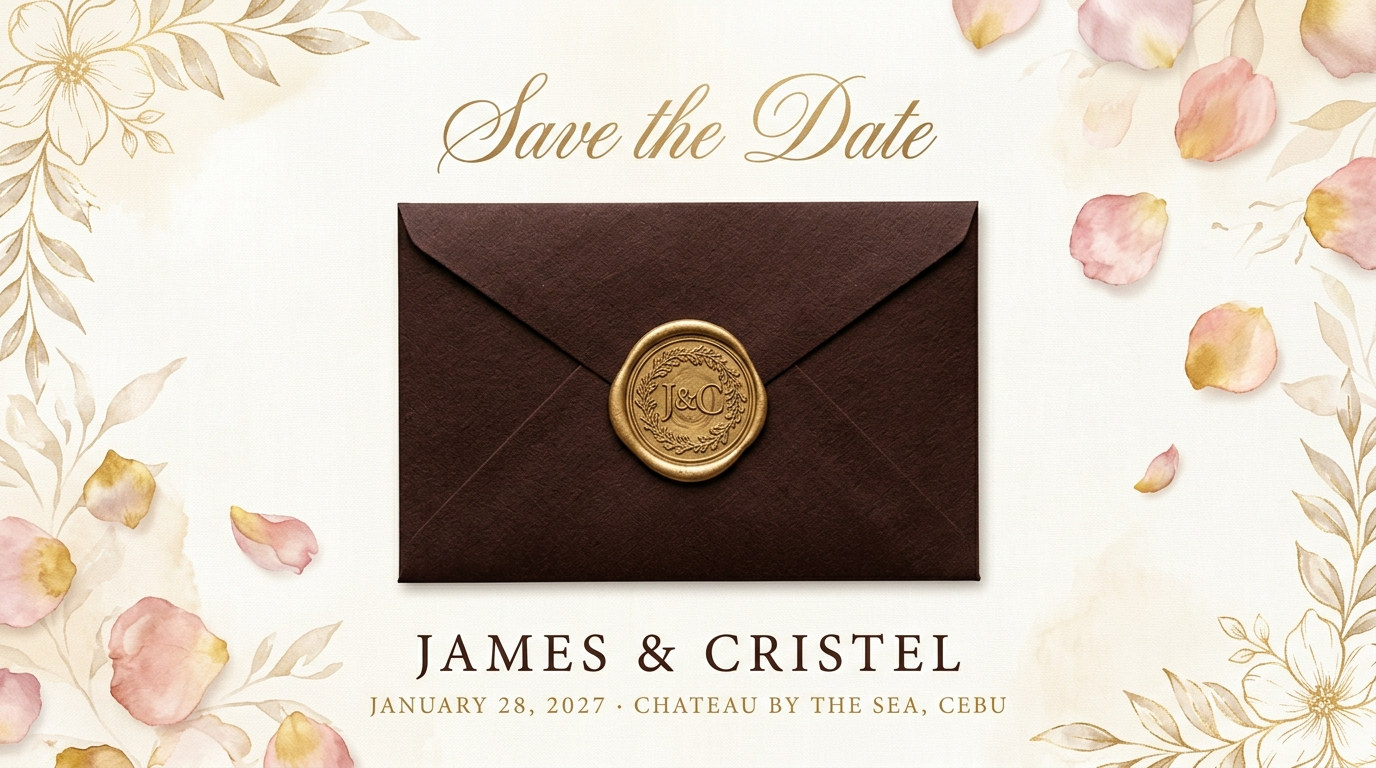
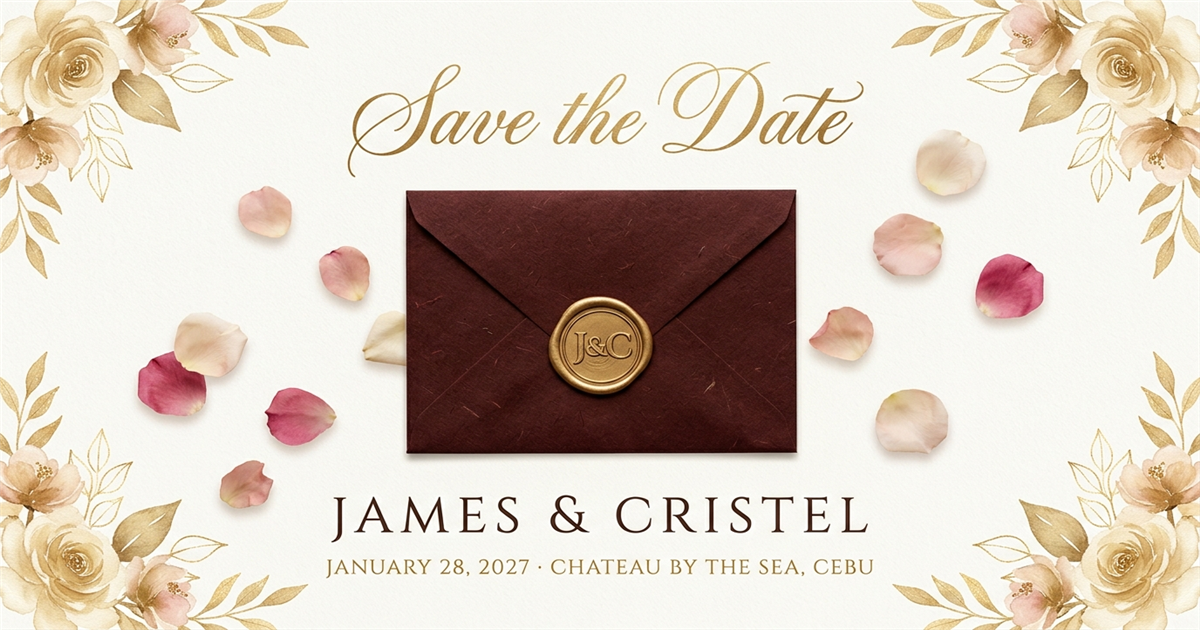
fix: OG image 1200x630, shorter description, add og:site_name

diff --git a/index.html b/index.html
@@ -4,12 +4,13 @@
     <meta charset="UTF-8" />
     <meta name="viewport" content="width=device-width, initial-scale=1.0" />
     <title>James &amp; Cristel | Wedding Invitation</title>
-    <meta name="description" content="Join James and Cristel as they celebrate their wedding on January 28, 2027 at Chateau By The Sea, Lapu-Lapu City, Cebu." />
+    <meta name="description" content="James &amp; Cristel are getting married! Jan 28, 2027 · Chateau By The Sea, Cebu. Open to RSVP." />
 
     <!-- Open Graph / Facebook / WhatsApp -->
     <meta property="og:type" content="website" />
+    <meta property="og:site_name" content="James &amp; Cristel Wedding" />
     <meta property="og:title" content="James &amp; Cristel | Wedding Invitation 💛" />
-    <meta property="og:description" content="You are cordially invited to celebrate the wedding of James &amp; Cristel on January 28, 2027 at Chateau By The Sea, Lapu-Lapu City, Cebu." />
+    <meta property="og:description" content="James &amp; Cristel are getting married! Jan 28, 2027 · Chateau By The Sea, Cebu." />
     <meta property="og:image" content="/og-wedding.png" />
     <meta property="og:image:type" content="image/png" />
     <meta property="og:image:width" content="1200" />
@@ -18,8 +19,9 @@
 
     <!-- Twitter / X -->
     <meta name="twitter:card" content="summary_large_image" />
+    <meta name="twitter:site" content="James &amp; Cristel Wedding" />
     <meta name="twitter:title" content="James &amp; Cristel | Wedding Invitation 💛" />
-    <meta name="twitter:description" content="You are cordially invited to celebrate the wedding of James &amp; Cristel on January 28, 2027 at Chateau By The Sea, Lapu-Lapu City, Cebu." />
+    <meta name="twitter:description" content="James &amp; Cristel are getting married! Jan 28, 2027 · Chateau By The Sea, Cebu." />
     <meta name="twitter:image" content="/og-wedding.png" />
     <meta name="twitter:image:alt" content="James &amp; Cristel Wedding Invitation Envelope" />
 
